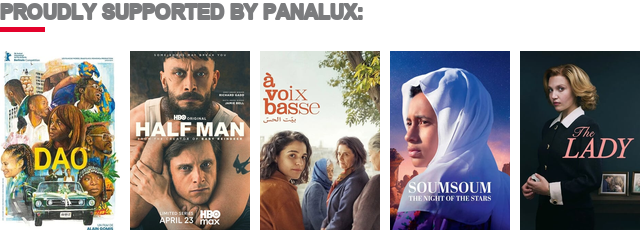
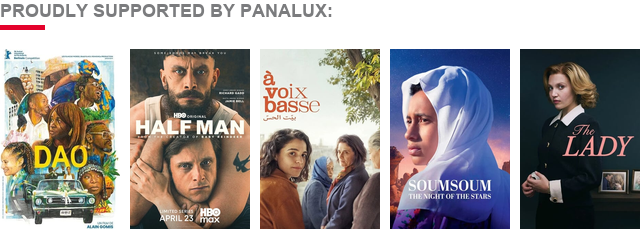
Headline: revert stroke, bump size 8→9 only

diff --git a/banner/compositor.py b/banner/compositor.py
@@ -121,24 +121,16 @@ def compose(credits: List[Credit]) -> Image.Image:
     draw = ImageDraw.Draw(img)
 
     # --- Header text: matches "THE PANAVISION GROUP" styling ---
-    # Email signature uses Arial Bold 6pt. We render slightly larger here
-    # (effective ~7.5pt) so the bitmap-rendered text doesn't look lighter than
-    # the live HTML text — image anti-aliasing softens edges by ~10–15% of
-    # perceived weight, so a small upsize compensates.
-    font_supporting = _load_font(FONT_BOLD_CANDIDATES, 10)
-    # Also add a 1-pixel stroke for extra weight to better match live HTML bold.
+    # Email signature uses Arial Bold 6pt. We render at size 9 here (vs the
+    # technically-equivalent 8) to compensate for bitmap anti-aliasing
+    # softening that makes image-baked text read a touch lighter than live
+    # HTML text at the same nominal size.
+    font_supporting = _load_font(FONT_BOLD_CANDIDATES, 9)
     text = "PROUDLY SUPPORTED BY PANALUX:"
     text_x = 0  # flush with banner's left edge (matches edge-to-edge posters)
     text_y_display = 0  # flush with top edge — no top padding
     text_y = text_y_display * SCALE
-    draw.text(
-        (text_x, text_y),
-        text,
-        font=font_supporting,
-        fill=COLOR_TEXT,
-        stroke_width=1,
-        stroke_fill=COLOR_TEXT,
-    )
+    draw.text((text_x, text_y), text, font=font_supporting, fill=COLOR_TEXT)
 
     # Measure the rendered text so the accent bar sits cleanly under it
     bbox = draw.textbbox((text_x, text_y), text, font=font_supporting)
